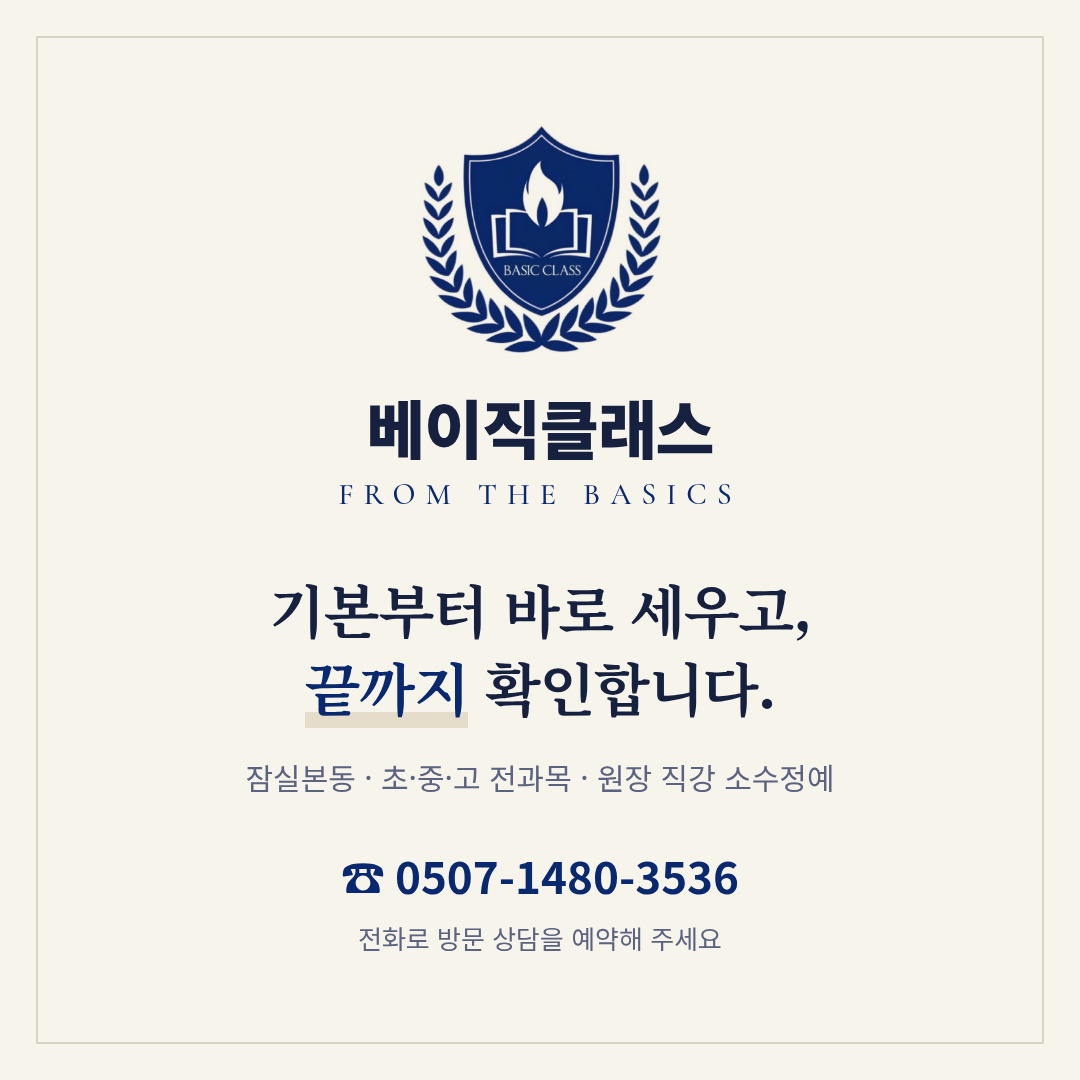
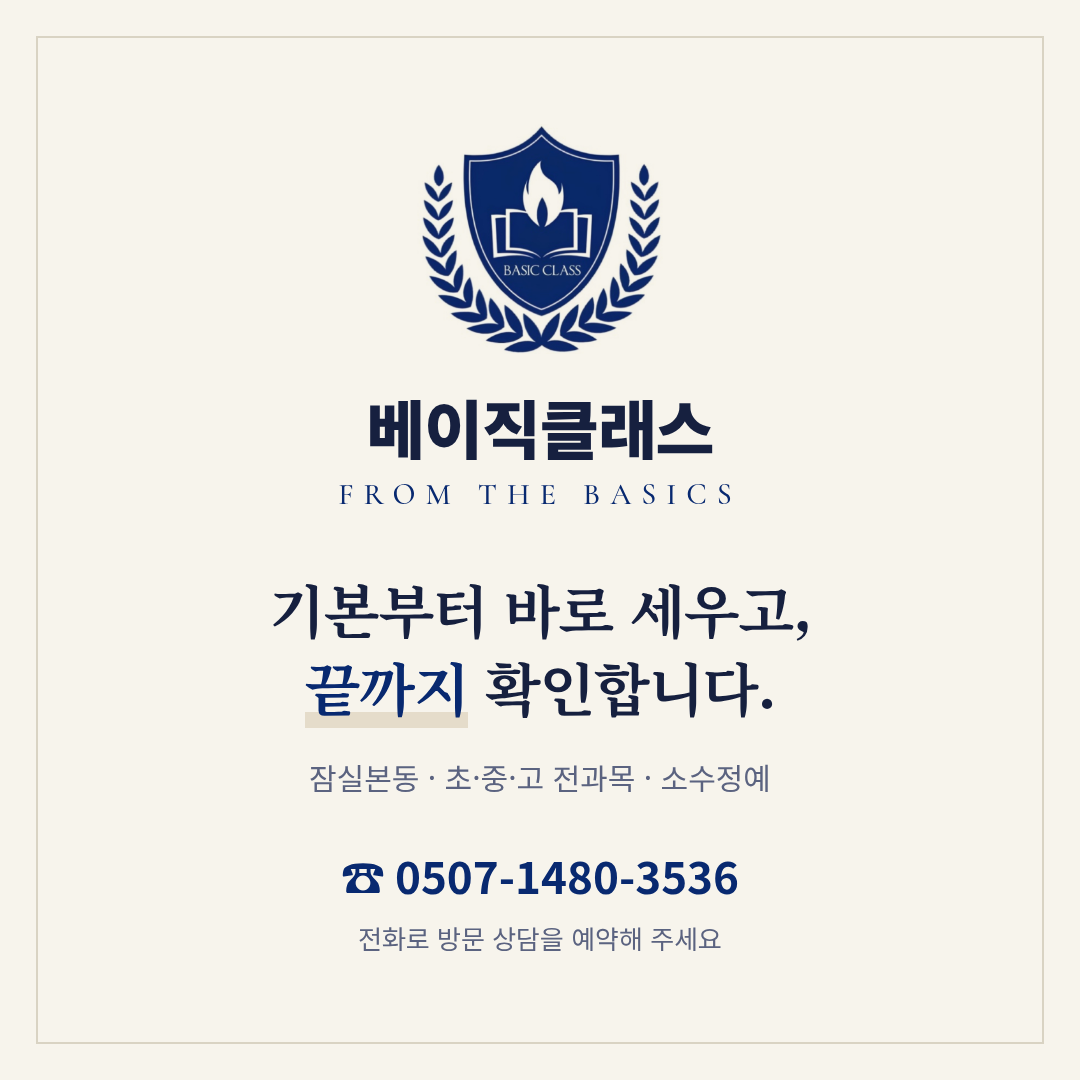
원장 직강 강조 제거, 소규모·소수정예 중심으로 문구 조정
Claude-Session: https://claude.ai/code/session_01WUCqnetPahfGrkxnyTByXR

Changed region(s): [[0.2139, 0.7028, 0.7944, 0.7333]]

diff --git a/academy-blog/src/design.html b/academy-blog/src/design.html
@@ -110,8 +110,8 @@
     <div class="hero">
       <div class="eyebrow">잠실본동 · 초·중·고 전과목 소수정예</div>
       <h1 class="serif">기본부터 바로 세우고,<br><em>끝까지</em> 확인합니다.</h1>
-      <p>원장이 직접 가르치는 소수정예 수업으로<br>학생 한 명 한 명의 빈틈을 찾아 채웁니다.</p>
-      <div class="facts"><div>원장 직강</div><div>소수정예</div><div>학교별 내신</div></div>
+      <p>작은 학원이라 가능한 소수정예 수업으로<br>학생 한 명 한 명의 빈틈을 찾아 채웁니다.</p>
+      <div class="facts"><div>소수정예</div><div>개인별 맞춤</div><div>학교별 내신</div></div>
     </div>
     <div class="grades">
       <div class="grade"><div class="no serif">초</div><div><h3>초등부</h3><p>개념 이해와 바른 공부 습관</p></div></div>
@@ -127,7 +127,7 @@
     <div class="name">베이직클래스</div>
     <div class="slogan latin">FROM THE BASICS</div>
     <h1 class="serif">기본부터 바로 세우고,<br><em>끝까지</em> 확인합니다.</h1>
-    <div class="sub">잠실본동 · 초·중·고 전과목 · 원장 직강 소수정예</div>
+    <div class="sub">잠실본동 · 초·중·고 전과목 · 소수정예</div>
     <div class="mtel">☎ 0507-1480-3536</div>
     <div class="sub" style="margin-top:12px;font-size:26px">전화로 방문 상담을 예약해 주세요</div>
   </div>

diff --git a/academy-blog/블로그_개편안.md b/academy-blog/블로그_개편안.md
@@ -10,7 +10,7 @@
 
 ## 0. 결론 요약
 
-1. **첫 화면은 "학년 → 상담"으로 이어지는 구조로 단순화합니다.** 지금의 대각선 사진 콜라주는 걷어내고, 한 문장(원장 직강·끝까지 확인)과 학년 카드 3개, 버튼 5개만 남깁니다.
+1. **첫 화면은 "학년 → 상담"으로 이어지는 구조로 단순화합니다.** 지금의 대각선 사진 콜라주는 걷어내고, 한 문장(기본부터·끝까지 확인)과 학년 카드 3개, 버튼 5개만 남깁니다.
 2. **지역 검색 노출은 블로그만으로는 한계가 있습니다.** "잠실 수학학원"류 검색에서는 **네이버 플레이스(스마트플레이스)**가 블로그보다 위에 노출됩니다. 블로그 개편과 플레이스 정비를 한 묶음으로 진행해야 효과가 납니다.
 3. **학부모 방문은 대부분 모바일입니다.** PC 타이틀·위젯은 모바일에서 보이지 않거나 다르게 보이므로, **모바일 커버·대표 글·글 하단 상담 문구**를 따로 설계합니다(4장).
 4. **법규상 즉시 수정할 항목이 있습니다.** 현재 배너의 "구멍 없는 **선행**" 문구가 해당합니다(6장).
@@ -24,7 +24,7 @@
 | 1 | 화면 오른쪽 끝에 **지도·연락처 박스가 한 번 더 반복**되어 보임 | 넓은 모니터에서 깨져 보여 전문성이 떨어짐 | 타이틀·스킨 배경을 "반복 없음 + 단색 배경"으로 변경 (3장) |
 | 2 | 배너 오타 **"Basics calss"** | 학원 신뢰도에 직접 타격 | 새 배너로 교체 |
 | 3 | "구멍 없는 **선행**" 문구 | 선행교육규제법상 선행학습 유발 광고 금지 조항과 충돌 가능 | "탄탄한 현행"으로 대체 (6장) |
-| 4 | 스톡 모델 사진 | 학원 실체가 드러나지 않아 차별성이 없음 | 실제 교실·원장 사진으로 교체 권장(초상권 동의 필수) |
+| 4 | 스톡 모델 사진 | 학원 실체가 드러나지 않아 차별성이 없음 | 실제 교실·수업 사진으로 교체 권장(초상권 동의 필수) |
 | 5 | 공지 제목의 **키워드 나열** ("잠실 초등 수학 학원, 잠실 중등 수학 학원, 잠실 고등 수학 학원") | 검색 품질 평가에서 불리할 수 있고, 사람이 읽기에도 어색함 | 제목은 "지역+학년+과목" 1회 + 구체적 주제로 작성 (5장) |
 | 6 | 최신 공지가 2024년 | 운영하지 않는 학원처럼 보임 | 고정 글 교체 + 주 2회 연재 |
 | 7 | 버튼 5개 중 "베이직 클래스를 만나면 성적이 달라집니다"는 기능이 없는 문구 | 클릭해도 목적지가 불분명함 | "시간표·반 안내" 버튼으로 교체 |
@@ -46,7 +46,8 @@
 | 모바일 커버 | `images/mobile_cover_1080.png` | 1080×1080 | 블로그 앱 홈 커버 (4장) |
 
 **메시지 설계 원칙**
-- 헤드라인은 하나만 둡니다: "기본부터 바로 세우고, **끝까지** 확인합니다." 로고 슬로건 FROM THE BASICS를 한국어로 풀고, 원장 직강·소수정예의 강점(끝까지 확인)을 이었습니다.
+- 헤드라인은 하나만 둡니다: "기본부터 바로 세우고, **끝까지** 확인합니다." 로고 슬로건 FROM THE BASICS를 한국어로 풀고, 소수정예의 강점(끝까지 확인)을 이었습니다.
+- **"작은 학원"은 약점이 아니라 강점으로 씁니다.** 대형 학원과 규모로 경쟁하지 않고, "작은 학원이라 가능한 소수정예"로 학생 한 명 한 명을 끝까지 본다는 점을 내세웁니다. 원장 직강은 일부 수업에만 해당하므로 첫 화면에서는 빼고, 필요하면 수업 안내 글에서 해당 반에만 사실대로 적습니다.
 - 톤: 로고 방패의 남색(`#082970`)을 주색으로, 아이보리 바탕과 명조 제목으로 차분하고 신뢰감 있게 구성했습니다. 강조색은 채도가 낮은 금색 한 가지만 씁니다.
 - **상담 창구는 전화 하나로 통일했습니다.** 카카오톡 상담은 운영하지 않으므로 버튼 5개 중 전화 상담만 남색으로 채워 가장 눈에 띄게 했습니다. 나머지 4개는 아이보리입니다. 전화번호는 타이틀 오른쪽 위, 전화 버튼, 모바일 커버, 모든 글 하단의 네 곳에 반복해 넣었습니다.
 - 성적 향상 수치나 합격 실적처럼 **검증 자료가 없는 주장은 넣지 않았습니다.** 넣으려면 기간·표본·산출 기준을 함께 표시해야 합니다(6장).
@@ -125,7 +126,7 @@
 
 ```
 📌 학원 안내
-   ├ 베이직클래스 소개 · 원장 소개
+   ├ 베이직클래스 소개 · 선생님 소개
    ├ 시간표 · 반 안내
    └ 오시는 길 · 상담 예약
 📘 초등부      ├ 수학 ├ 영어 └ 국어·독서
@@ -203,7 +204,7 @@
 - [ ] 카테고리 재편: 기존 글은 새 카테고리로 이동하고, 삭제하지 않음 (1주)
 - [ ] 글 하단 상담 템플릿 저장, 모바일 커버 설정 (1주)
 - [ ] 스마트플레이스 정보 갱신·블로그 연결 (1주)
-- [ ] 실제 교실·원장 사진 촬영 → 배너 v2에 반영 (2~4주)
+- [ ] 실제 교실·수업 사진 촬영 → 배너 v2에 반영 (2~4주)
 - [ ] 주 2회 연재 시작, 8주 후 성과 점검
 
 ### 성과 지표 (개편 전후 비교)
